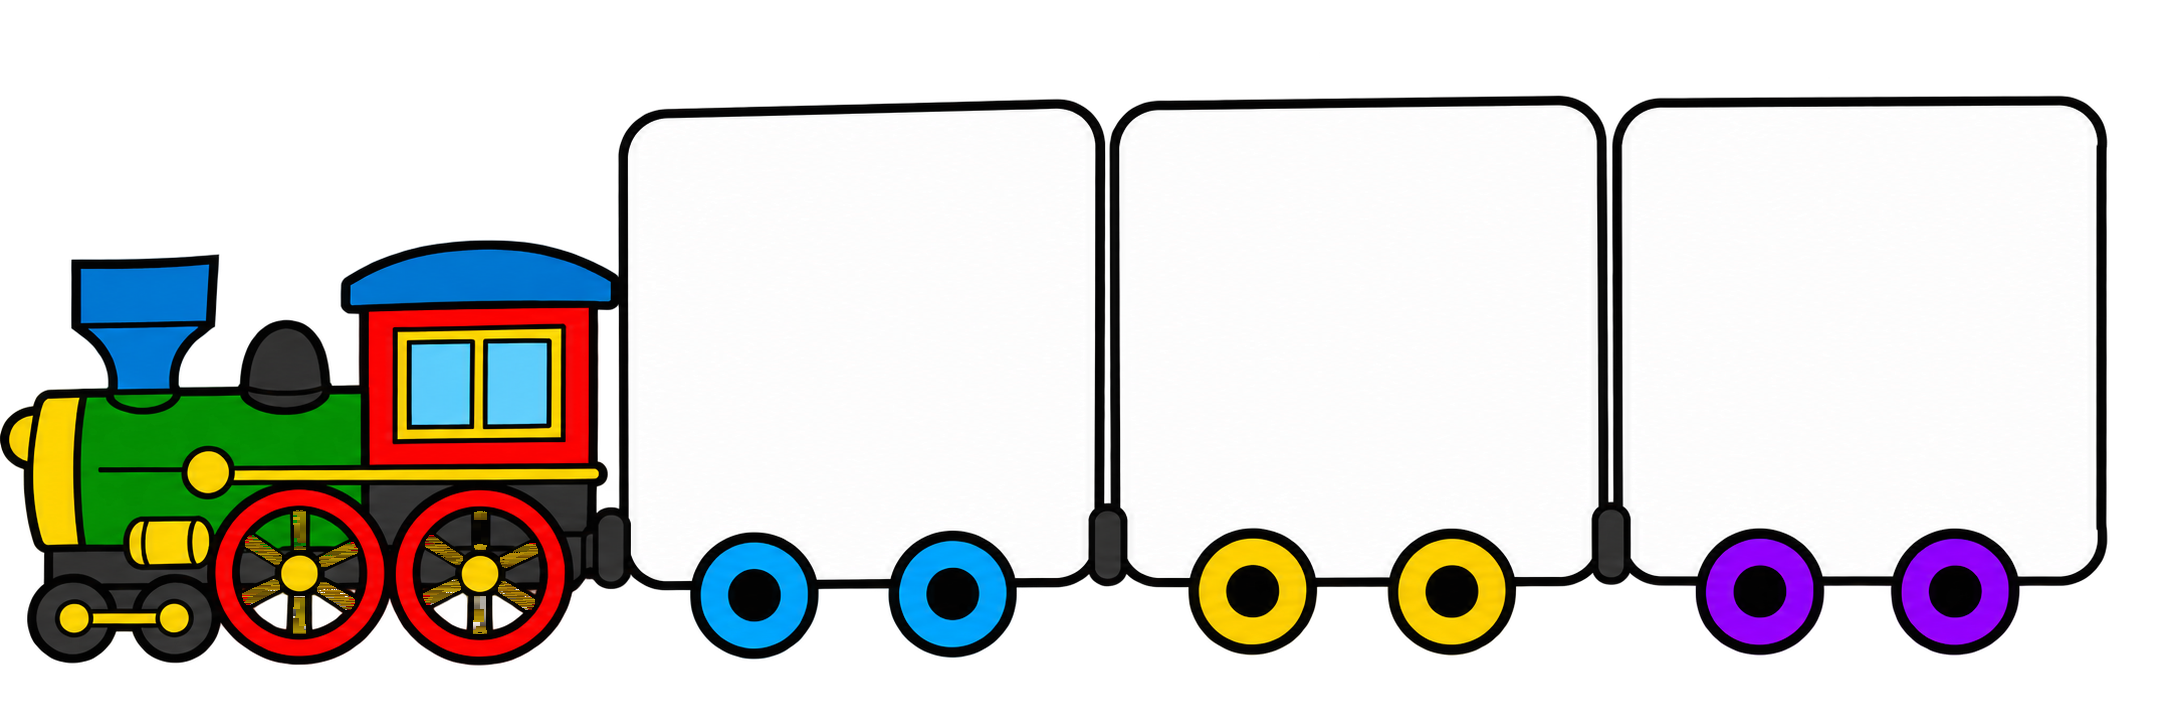
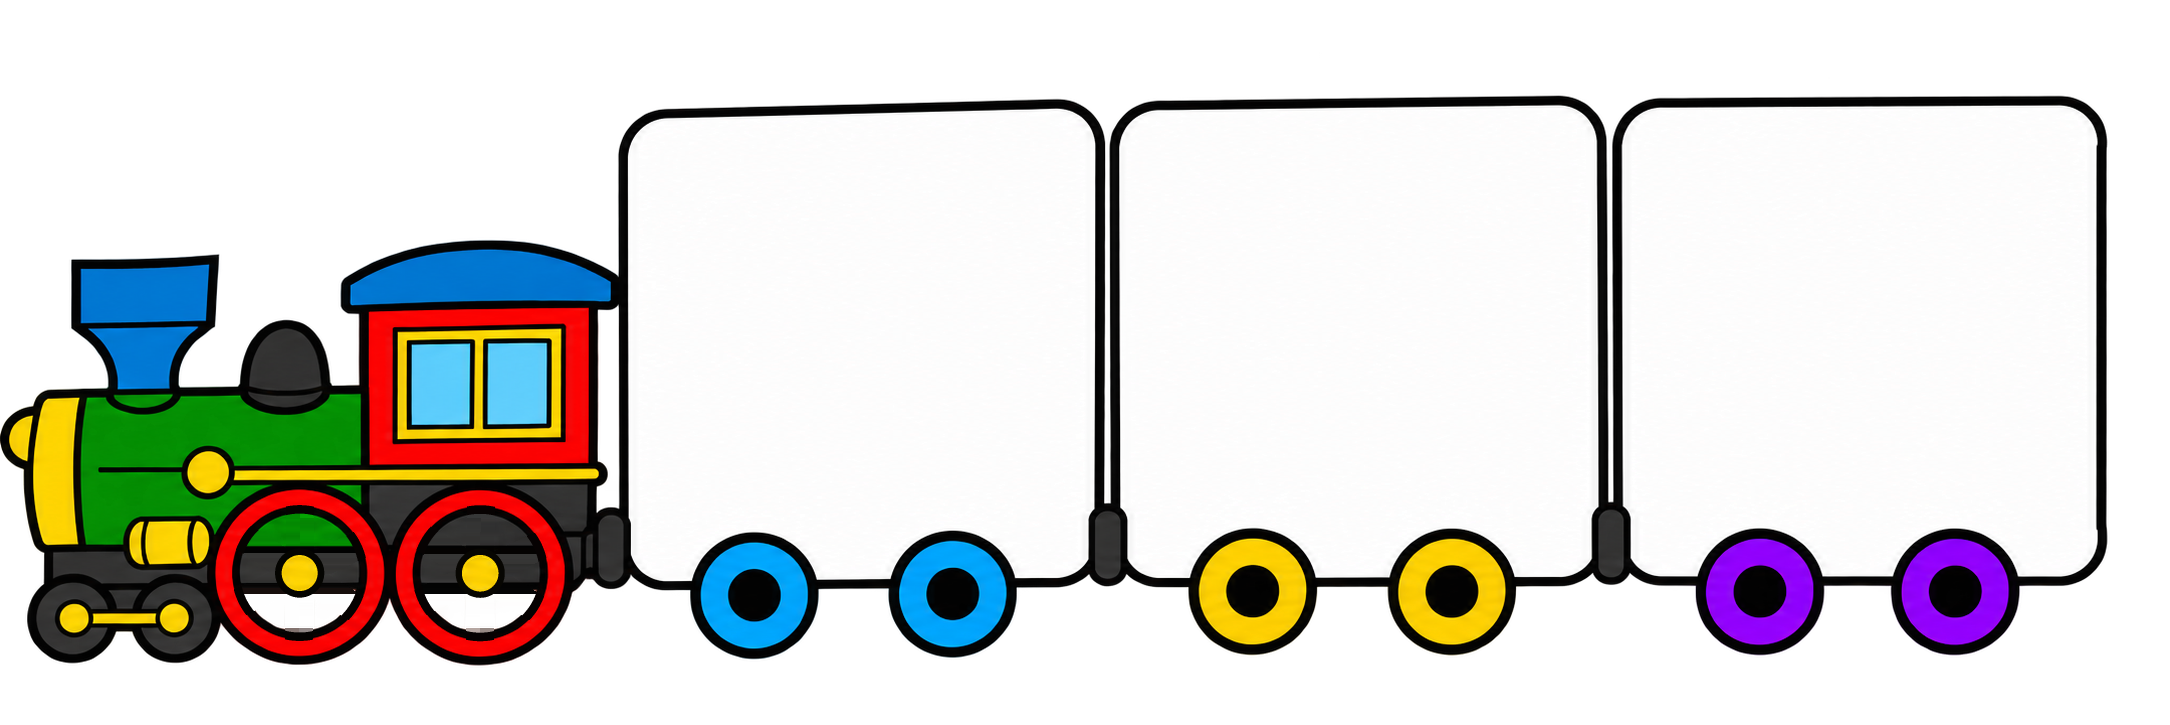
Update train wheel image assets for improved visual quality and synchronization

Changed region(s): [[0.0926, 0.6979, 0.247, 0.88]]

diff --git a/HI02H04_L01_S01/HI02H04_L01_S01.html b/HI02H04_L01_S01/HI02H04_L01_S01.html
@@ -4082,9 +4082,6 @@ const SlideModules = {
         // cut out and spun (train_wheel_f1/f2.png, 84.8x84.8 picture px boxes at the raw art's resolution): the red ring and the yellow
         // hub are round, so they stay in the body with the coupling rod, and what sits behind each spoke is painted into
         // train_figma.png itself (inpainted row by row), so no separate backplate - bg is null here
-        // [WHEEL-SYNC] (2026-10-07, user request): on this scene the spin is not --turn on the train's curve (set below all the same;
-        // the old scenes read it) but refWheelInF / refWheelOutF in #P13-14-FIGMA295-CSS - one spoke per chuff of the departure
-        // sound (312.5deg/s), capped on the arrival, spun up with the engine sound on the departure; see the note there
         const WHEELS = FIGMA ? [{ cx:130.9, cy:250.3, r:36.3, hs:42.4, src:'train_wheel_f1', bg:null },
                                 { cx:209.8, cy:250.4, r:36.3, hs:42.4, src:'train_wheel_f2', bg:null }]
                              : [{ cx:204.2, cy:174.4, r:32.9, hs:27, src:'train_wheel_1', bg:'train_wheel_bg_1' },
@@ -9257,60 +9254,6 @@ html.rotated body.station-page::before{inset:auto;left:50%;top:50%;width:100vh;h
 .stage.ref-figma .ref-pics{position:absolute;left:0;right:0;top:436px;margin:0;}
 .stage.ref-figma .ref-pics .ref-pic:not(.ref-over){height:150px;border-radius:12.1px;}
 .stage.ref-figma .ref-pics .ref-pic:not(.ref-dragging):not(.ref-placing){box-shadow:0 1px 6px rgba(11,42,90,.20),0 0 2px rgba(11,42,90,.12);}
-/* [WHEEL-SYNC] (2026-10-07, user request: "make the wheels movement some more smooth in sync with the sound effects used"): on this
-   scene the loco wheels no longer copy the train's own curve (refWheelIn / refWheelOut from --turn: the run's physical roll is 1766deg =
-   4.9 turns, and on refTrainIn's curve that is 1100deg/s at the start of the arrival and the end of the departure - 37deg per frame at
-   30fps, over half of a 60deg spoke period, where the six spokes strobe and seem to run backwards - while on the departure they stood
-   still for 2.5s under a chuffing engine, the run's curve hardly moving until then). The departure sound (sfx_train_depart.mp3) chuffs
-   steadily every 192ms from 0.5s to 6.4s (5.2 a second; silent to 0.25s, fading from 5.8s): the wheels now turn ONE SPOKE PER CHUFF,
-   60deg / 192ms = 312.5deg/s = 0.87 turns a second (10deg per frame at 30fps, 5 at 60: smooth).
-   - arrival (refWheelInF: the run's 6.001s and .3s delay, linear between 1% stops): the wheel rolls true on the rail - its rate is the
-     train's speed on refTrainIn's cubic-bezier(.2,.75,.25,1) over the drawn radius (36.3 picture px: 237.5px round) - but capped at the
-     chuff tempo: 312.5deg/s through the first 1.88s of the run (the fast entry), then tracking the train exactly as it slows (120deg/s at
-     3s, 33 at 4.5s, 5 at 5.7s), so the spokes settle to rest with the train; 935deg = 2.6 turns in all.
-   - departure (refWheelOutF: the run's 6.001s): still through the sound's silent first 0.2s, spun up over 0.5s as the engine comes in (a
-     smoothstep), then the chuff tempo held to the end while the train pulls away on refTrainOut's curve (it hardly moves for 2.5s, then
-     shoots off): the wheels turn under the chuffing before the train lurches away - a steam engine's slipping start; 1735deg = 4.8 turns.
-   The stops were generated by the scratchpad's wheels/make_wheel_keyframes.py from these formulas. The module still sets --turn on each
-   wheel; nothing on this scene reads it. The kit's html.no-anim / reduced-motion rule still stills the wheels, at rest */
-.stage.ref-figma .ref-panel .ref-wheel{animation:refWheelInF 6.001s linear .3s both;}
-.stage.ref-figma .ref-panel.ref-depart .ref-wheel{animation:refWheelOutF 6.001s linear both;}
-@keyframes refWheelInF{
-  0%{transform:rotate(934.9deg);}1%{transform:rotate(916.1deg);}2%{transform:rotate(897.4deg);}3%{transform:rotate(878.6deg);}4%{transform:rotate(859.9deg);}5%{transform:rotate(841.1deg);}
-  6%{transform:rotate(822.4deg);}7%{transform:rotate(803.6deg);}8%{transform:rotate(784.8deg);}9%{transform:rotate(766.1deg);}10%{transform:rotate(747.3deg);}11%{transform:rotate(728.6deg);}
-  12%{transform:rotate(709.8deg);}13%{transform:rotate(691.1deg);}14%{transform:rotate(672.3deg);}15%{transform:rotate(653.6deg);}16%{transform:rotate(634.8deg);}17%{transform:rotate(616.1deg);}
-  18%{transform:rotate(597.3deg);}19%{transform:rotate(578.6deg);}20%{transform:rotate(559.8deg);}21%{transform:rotate(541.1deg);}22%{transform:rotate(522.3deg);}23%{transform:rotate(503.6deg);}
-  24%{transform:rotate(484.8deg);}25%{transform:rotate(466.0deg);}26%{transform:rotate(447.3deg);}27%{transform:rotate(428.5deg);}28%{transform:rotate(409.8deg);}29%{transform:rotate(391.0deg);}
-  30%{transform:rotate(372.3deg);}31%{transform:rotate(353.5deg);}32%{transform:rotate(335.0deg);}33%{transform:rotate(317.3deg);}34%{transform:rotate(300.6deg);}35%{transform:rotate(284.8deg);}
-  36%{transform:rotate(269.9deg);}37%{transform:rotate(255.7deg);}38%{transform:rotate(242.2deg);}39%{transform:rotate(229.4deg);}40%{transform:rotate(217.3deg);}41%{transform:rotate(205.8deg);}
-  42%{transform:rotate(194.9deg);}43%{transform:rotate(184.5deg);}44%{transform:rotate(174.6deg);}45%{transform:rotate(165.2deg);}46%{transform:rotate(156.2deg);}47%{transform:rotate(147.7deg);}
-  48%{transform:rotate(139.6deg);}49%{transform:rotate(131.9deg);}50%{transform:rotate(124.5deg);}51%{transform:rotate(117.5deg);}52%{transform:rotate(110.9deg);}53%{transform:rotate(104.5deg);}
-  54%{transform:rotate(98.5deg);}55%{transform:rotate(92.7deg);}56%{transform:rotate(87.2deg);}57%{transform:rotate(82.0deg);}58%{transform:rotate(77.0deg);}59%{transform:rotate(72.2deg);}
-  60%{transform:rotate(67.7deg);}61%{transform:rotate(63.4deg);}62%{transform:rotate(59.3deg);}63%{transform:rotate(55.4deg);}64%{transform:rotate(51.7deg);}65%{transform:rotate(48.2deg);}
-  66%{transform:rotate(44.9deg);}67%{transform:rotate(41.7deg);}68%{transform:rotate(38.7deg);}69%{transform:rotate(35.8deg);}70%{transform:rotate(33.1deg);}71%{transform:rotate(30.5deg);}
-  72%{transform:rotate(28.1deg);}73%{transform:rotate(25.8deg);}74%{transform:rotate(23.6deg);}75%{transform:rotate(21.5deg);}76%{transform:rotate(19.6deg);}77%{transform:rotate(17.8deg);}
-  78%{transform:rotate(16.1deg);}79%{transform:rotate(14.5deg);}80%{transform:rotate(13.0deg);}81%{transform:rotate(11.6deg);}82%{transform:rotate(10.3deg);}83%{transform:rotate(9.0deg);}
-  84%{transform:rotate(7.9deg);}85%{transform:rotate(6.9deg);}86%{transform:rotate(5.9deg);}87%{transform:rotate(5.1deg);}88%{transform:rotate(4.3deg);}89%{transform:rotate(3.5deg);}
-  90%{transform:rotate(2.9deg);}91%{transform:rotate(2.3deg);}92%{transform:rotate(1.8deg);}93%{transform:rotate(1.4deg);}94%{transform:rotate(1.0deg);}95%{transform:rotate(0.7deg);}
-  96%{transform:rotate(0.4deg);}97%{transform:rotate(0.2deg);}98%{transform:rotate(0.1deg);}99%{transform:rotate(0.0deg);}100%{transform:rotate(0.0deg);}}
-@keyframes refWheelOutF{
-  0%{transform:rotate(0.0deg);}1%{transform:rotate(0.0deg);}2%{transform:rotate(0.0deg);}3%{transform:rotate(0.0deg);}4%{transform:rotate(-0.1deg);}5%{transform:rotate(-1.1deg);}
-  6%{transform:rotate(-4.3deg);}7%{transform:rotate(-10.4deg);}8%{transform:rotate(-19.8deg);}9%{transform:rotate(-32.4deg);}10%{transform:rotate(-48.0deg);}11%{transform:rotate(-65.7deg);}
-  12%{transform:rotate(-84.4deg);}13%{transform:rotate(-103.2deg);}14%{transform:rotate(-121.9deg);}15%{transform:rotate(-140.7deg);}16%{transform:rotate(-159.4deg);}17%{transform:rotate(-178.2deg);}
-  18%{transform:rotate(-196.9deg);}19%{transform:rotate(-215.7deg);}20%{transform:rotate(-234.4deg);}21%{transform:rotate(-253.2deg);}22%{transform:rotate(-271.9deg);}23%{transform:rotate(-290.7deg);}
-  24%{transform:rotate(-309.4deg);}25%{transform:rotate(-328.2deg);}26%{transform:rotate(-347.0deg);}27%{transform:rotate(-365.7deg);}28%{transform:rotate(-384.5deg);}29%{transform:rotate(-403.2deg);}
-  30%{transform:rotate(-422.0deg);}31%{transform:rotate(-440.7deg);}32%{transform:rotate(-459.5deg);}33%{transform:rotate(-478.2deg);}34%{transform:rotate(-497.0deg);}35%{transform:rotate(-515.7deg);}
-  36%{transform:rotate(-534.5deg);}37%{transform:rotate(-553.2deg);}38%{transform:rotate(-572.0deg);}39%{transform:rotate(-590.7deg);}40%{transform:rotate(-609.5deg);}41%{transform:rotate(-628.3deg);}
-  42%{transform:rotate(-647.0deg);}43%{transform:rotate(-665.8deg);}44%{transform:rotate(-684.5deg);}45%{transform:rotate(-703.3deg);}46%{transform:rotate(-722.0deg);}47%{transform:rotate(-740.8deg);}
-  48%{transform:rotate(-759.5deg);}49%{transform:rotate(-778.3deg);}50%{transform:rotate(-797.0deg);}51%{transform:rotate(-815.8deg);}52%{transform:rotate(-834.5deg);}53%{transform:rotate(-853.3deg);}
-  54%{transform:rotate(-872.0deg);}55%{transform:rotate(-890.8deg);}56%{transform:rotate(-909.5deg);}57%{transform:rotate(-928.3deg);}58%{transform:rotate(-947.1deg);}59%{transform:rotate(-965.8deg);}
-  60%{transform:rotate(-984.6deg);}61%{transform:rotate(-1003.3deg);}62%{transform:rotate(-1022.1deg);}63%{transform:rotate(-1040.8deg);}64%{transform:rotate(-1059.6deg);}65%{transform:rotate(-1078.3deg);}
-  66%{transform:rotate(-1097.1deg);}67%{transform:rotate(-1115.8deg);}68%{transform:rotate(-1134.6deg);}69%{transform:rotate(-1153.3deg);}70%{transform:rotate(-1172.1deg);}71%{transform:rotate(-1190.8deg);}
-  72%{transform:rotate(-1209.6deg);}73%{transform:rotate(-1228.4deg);}74%{transform:rotate(-1247.1deg);}75%{transform:rotate(-1265.9deg);}76%{transform:rotate(-1284.6deg);}77%{transform:rotate(-1303.4deg);}
-  78%{transform:rotate(-1322.1deg);}79%{transform:rotate(-1340.9deg);}80%{transform:rotate(-1359.6deg);}81%{transform:rotate(-1378.4deg);}82%{transform:rotate(-1397.1deg);}83%{transform:rotate(-1415.9deg);}
-  84%{transform:rotate(-1434.6deg);}85%{transform:rotate(-1453.4deg);}86%{transform:rotate(-1472.1deg);}87%{transform:rotate(-1490.9deg);}88%{transform:rotate(-1509.6deg);}89%{transform:rotate(-1528.4deg);}
-  90%{transform:rotate(-1547.2deg);}91%{transform:rotate(-1565.9deg);}92%{transform:rotate(-1584.7deg);}93%{transform:rotate(-1603.4deg);}94%{transform:rotate(-1622.2deg);}95%{transform:rotate(-1640.9deg);}
-  96%{transform:rotate(-1659.7deg);}97%{transform:rotate(-1678.4deg);}98%{transform:rotate(-1697.2deg);}99%{transform:rotate(-1715.9deg);}100%{transform:rotate(-1734.7deg);}}
 </style>
 <script id="BGM-DUCK-JS">
 /* [BGM-DUCK] (2026-10-02, user request): a low background-music bed under pages 1-13 (slides 0-12, T1 to P6), ducked to a minimal
